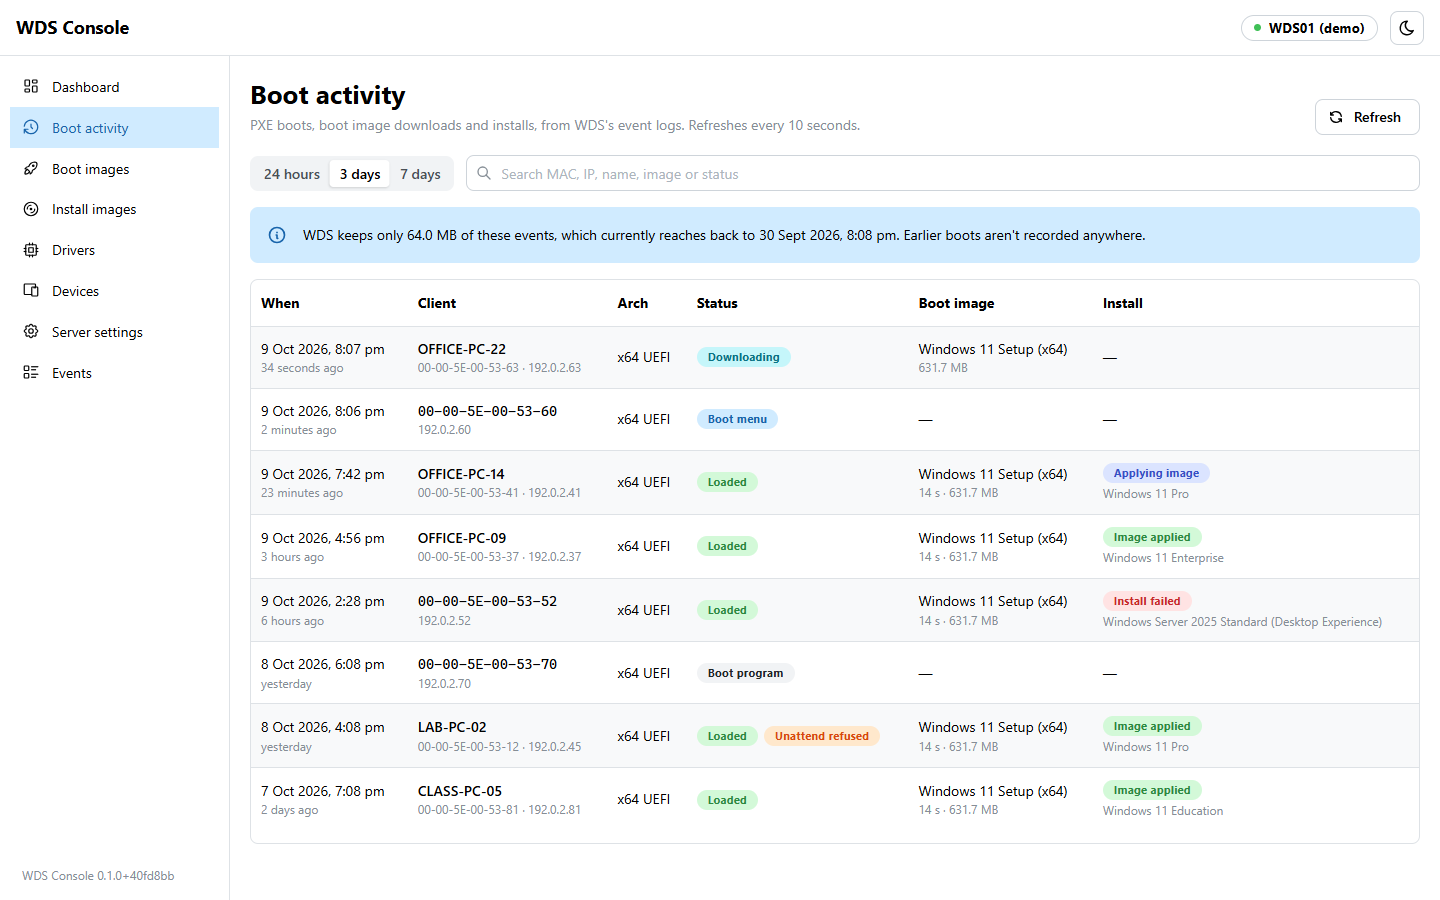
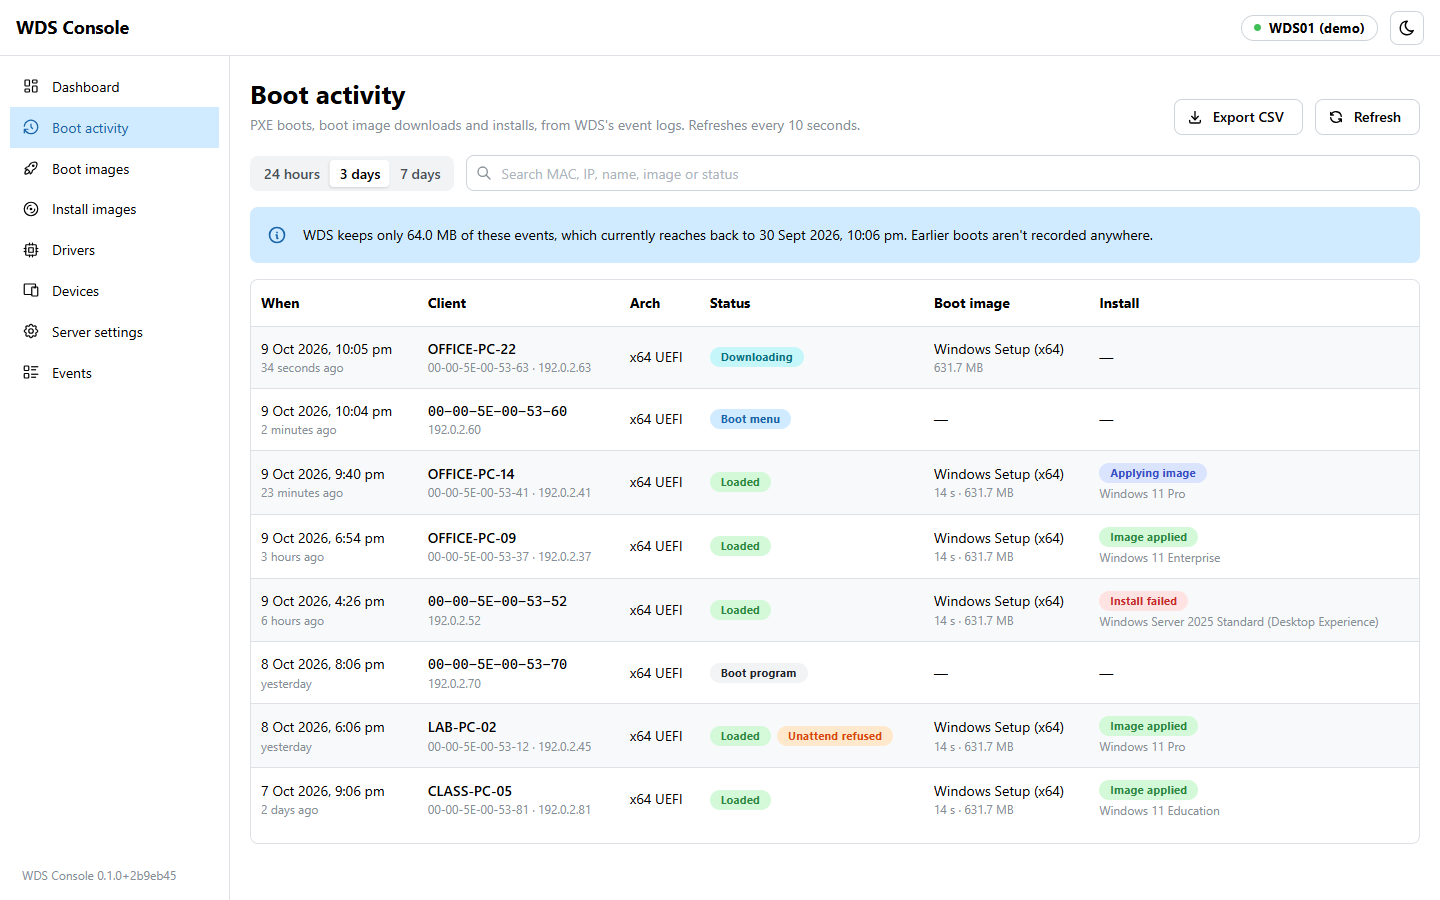
Keep Undo up long enough to use, and describe the new features
The Undo message stays ten seconds instead of four: checking it against a
real server, it went before Undo could be reached. The README lists what's
new (several editions at a time, prestaging from a list, answering several
requests, links, CSV export, Undo, phones), and its screenshots are
retaken from the demo, whose boot images are now what works.

diff --git a/web/src/lib/notify.tsx b/web/src/lib/notify.tsx
@@ -9,6 +9,8 @@ export function showDone(message: string, undo?: () => Promise<unknown>) {
   }
   const id = notifications.show({
     color: 'green',
+    // Long enough to notice a mistake and reach for Undo.
+    autoClose: 10_000,
     message: (
       <Group justify="space-between" wrap="nowrap" gap="sm">
         <Text size="sm">{message}</Text>

diff --git a/README.md b/README.md
@@ -14,11 +14,13 @@ same network, and signs people in with their Windows accounts.
 
 ## Features
 
-- **Boot and install images**: import from an upload or from an ISO, WIM or ESD already on the server;
-  enable, disable, rename, reorder and remove images; give install images an unattend file.
-- **Devices**: prestage devices by MAC address or SMBIOS GUID, each with its own boot image, PXE prompt,
-  WDS client unattend file and domain join; approve or reject devices waiting for approval, and clear
-  the answered requests WDS would otherwise keep acting on.
+- **Boot and install images**: import from an upload or from an ISO, WIM or ESD already on the server,
+  several editions at a time; enable, disable, rename, reorder and remove images; give install images an
+  unattend file. Imports run in the background, and say when they're done from any page.
+- **Devices**: prestage devices by MAC address or SMBIOS GUID, one at a time or from a list, each with
+  its own boot image, PXE prompt, WDS client unattend file and domain join; approve or reject devices
+  waiting for approval, several at once, and clear the answered requests WDS would otherwise keep acting
+  on.
 - **Boot activity**: every PXE boot, how far it got (the network boot prompt, the boot menu, the boot
   image download) and what it downloaded, and with WDS client logging on, the install that followed:
   which image was chosen, by whom, how long the apply took, and any errors, updated as it goes. Search
@@ -30,6 +32,10 @@ same network, and signs people in with their Windows accounts.
   chassis type and more; enable, disable, rename, regroup and remove packages, one or many at once;
   and add packages to boot images, for network and storage drivers WinPE lacks.
 - **Events**: WDS's event logs, without the routine noise.
+- **Day to day**: search, filters and the open item are kept in the page's address, so a link shows a
+  colleague the same boot, event or driver group; devices, boots, drivers and events export to CSV;
+  enabling, disabling and regrouping can be undone from the message that confirms them; and it works
+  on a phone.
 - **Access control and audit**: Windows sign-in for the groups and users you choose, and every change
   recorded, with who made it, in the Windows event log.
 
